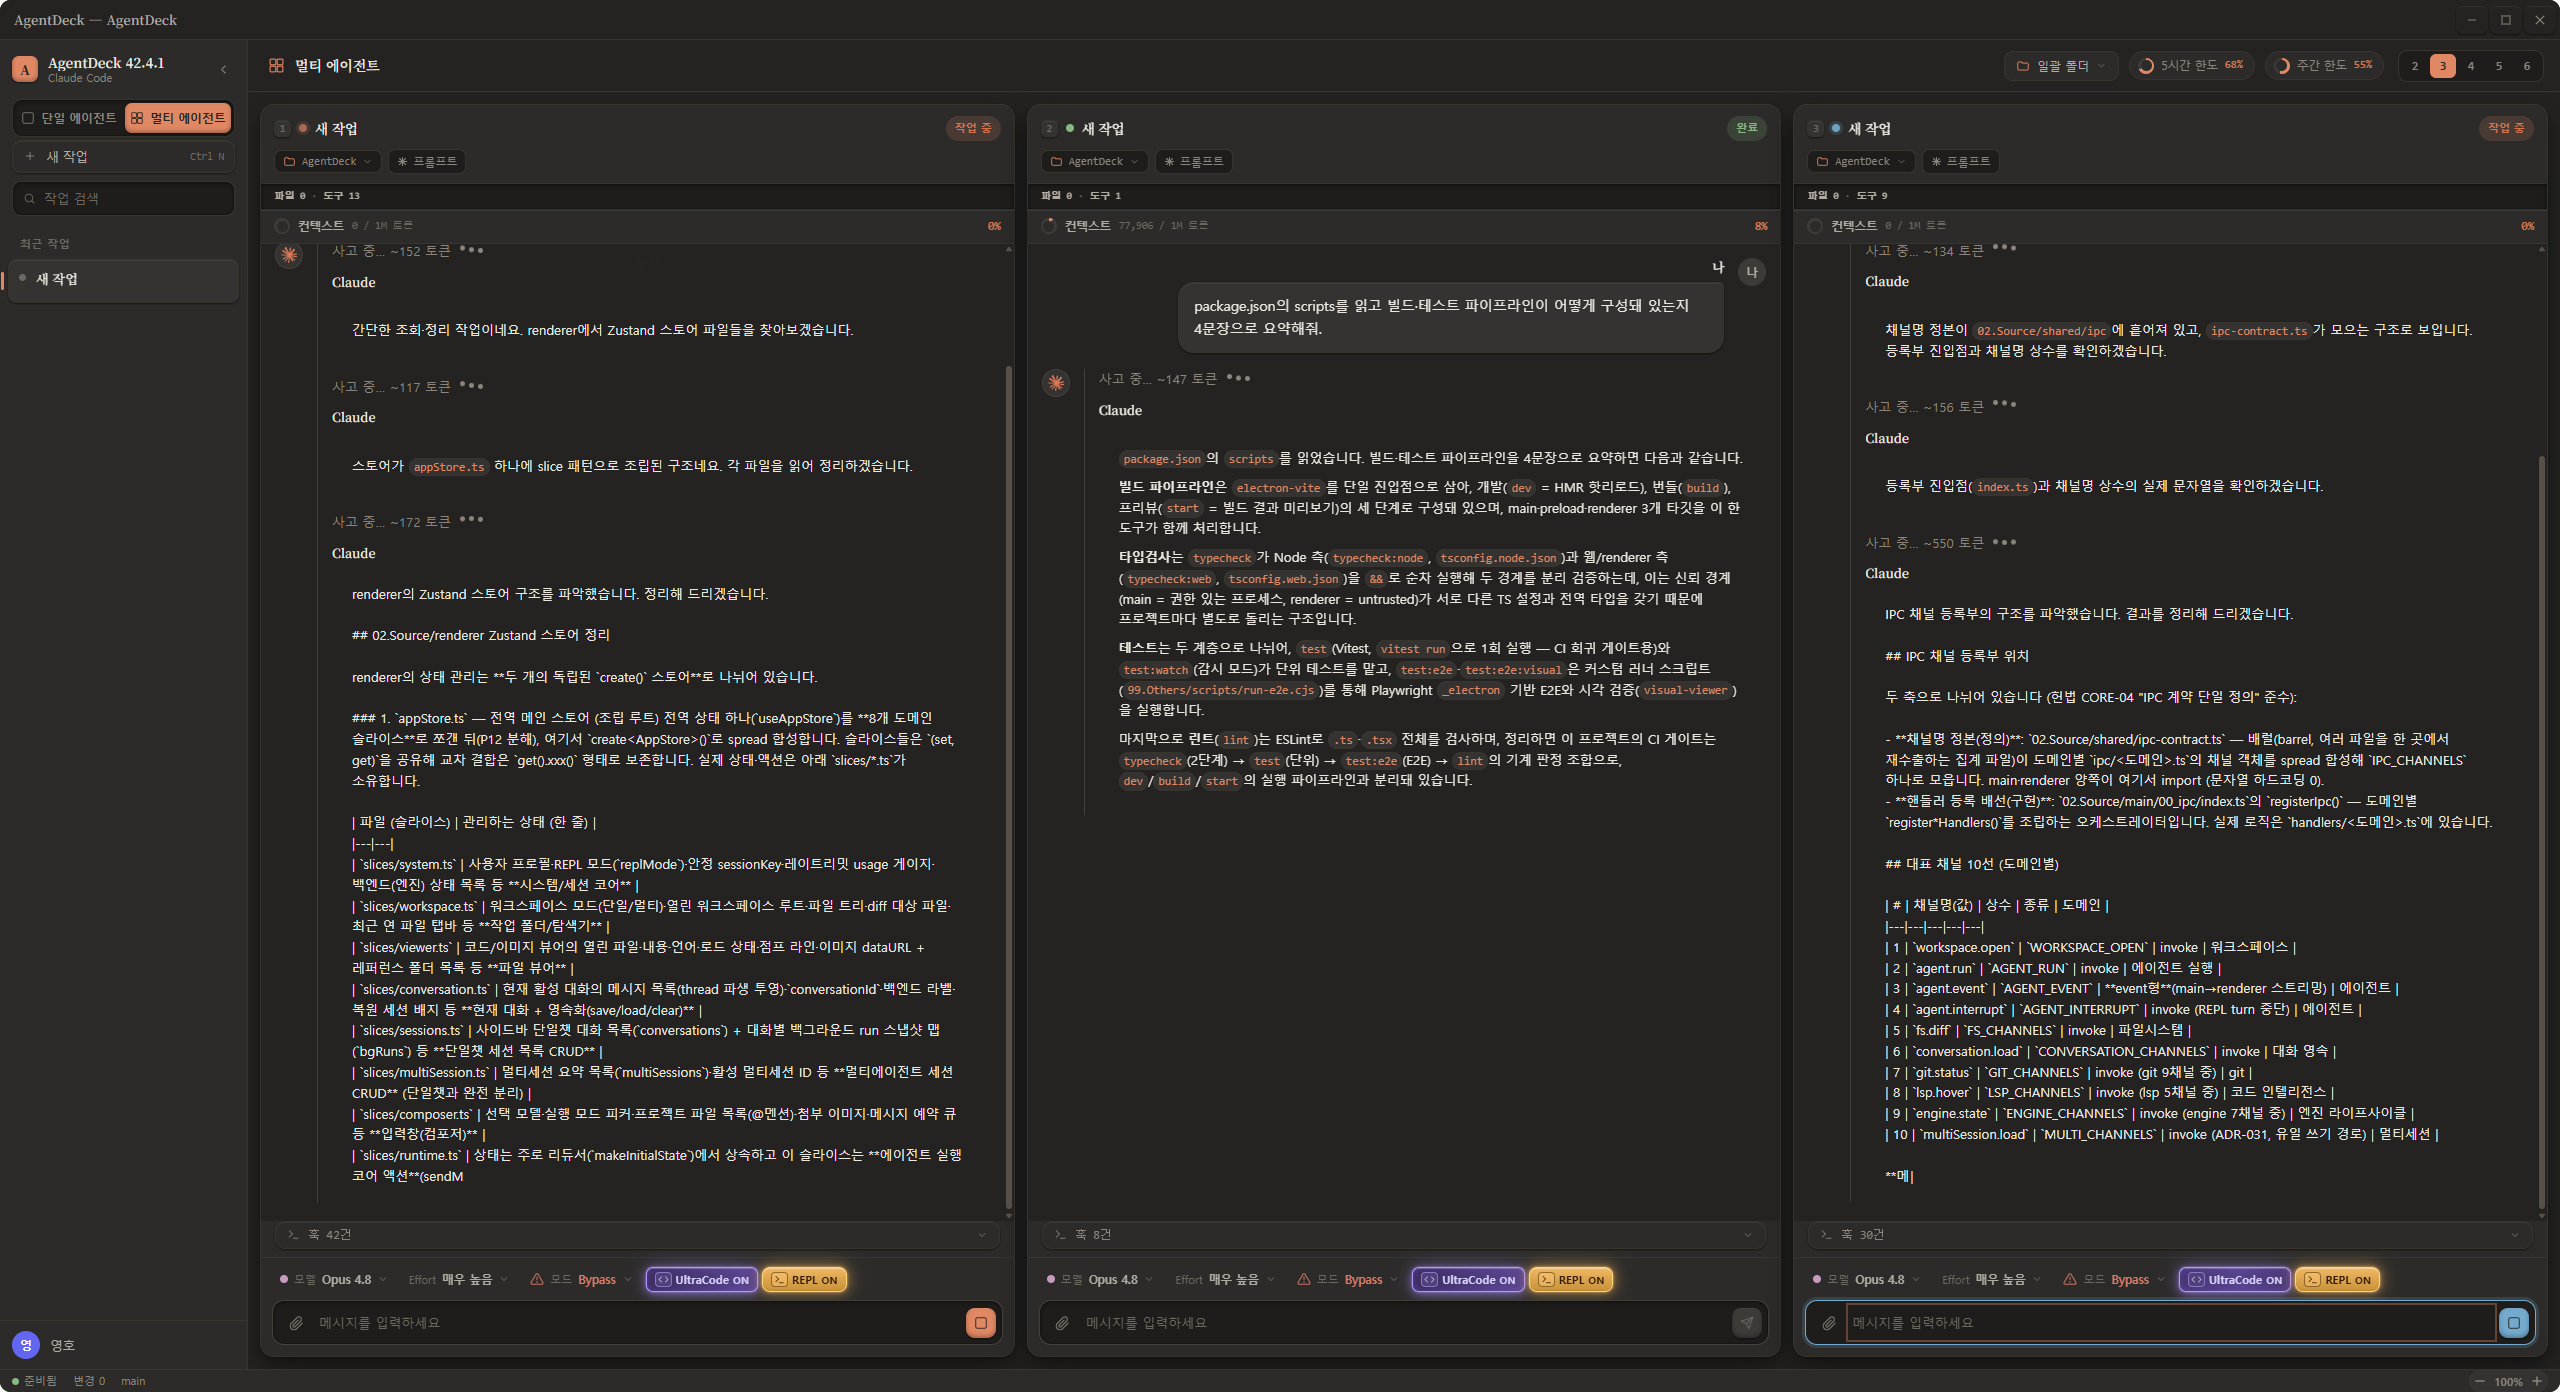
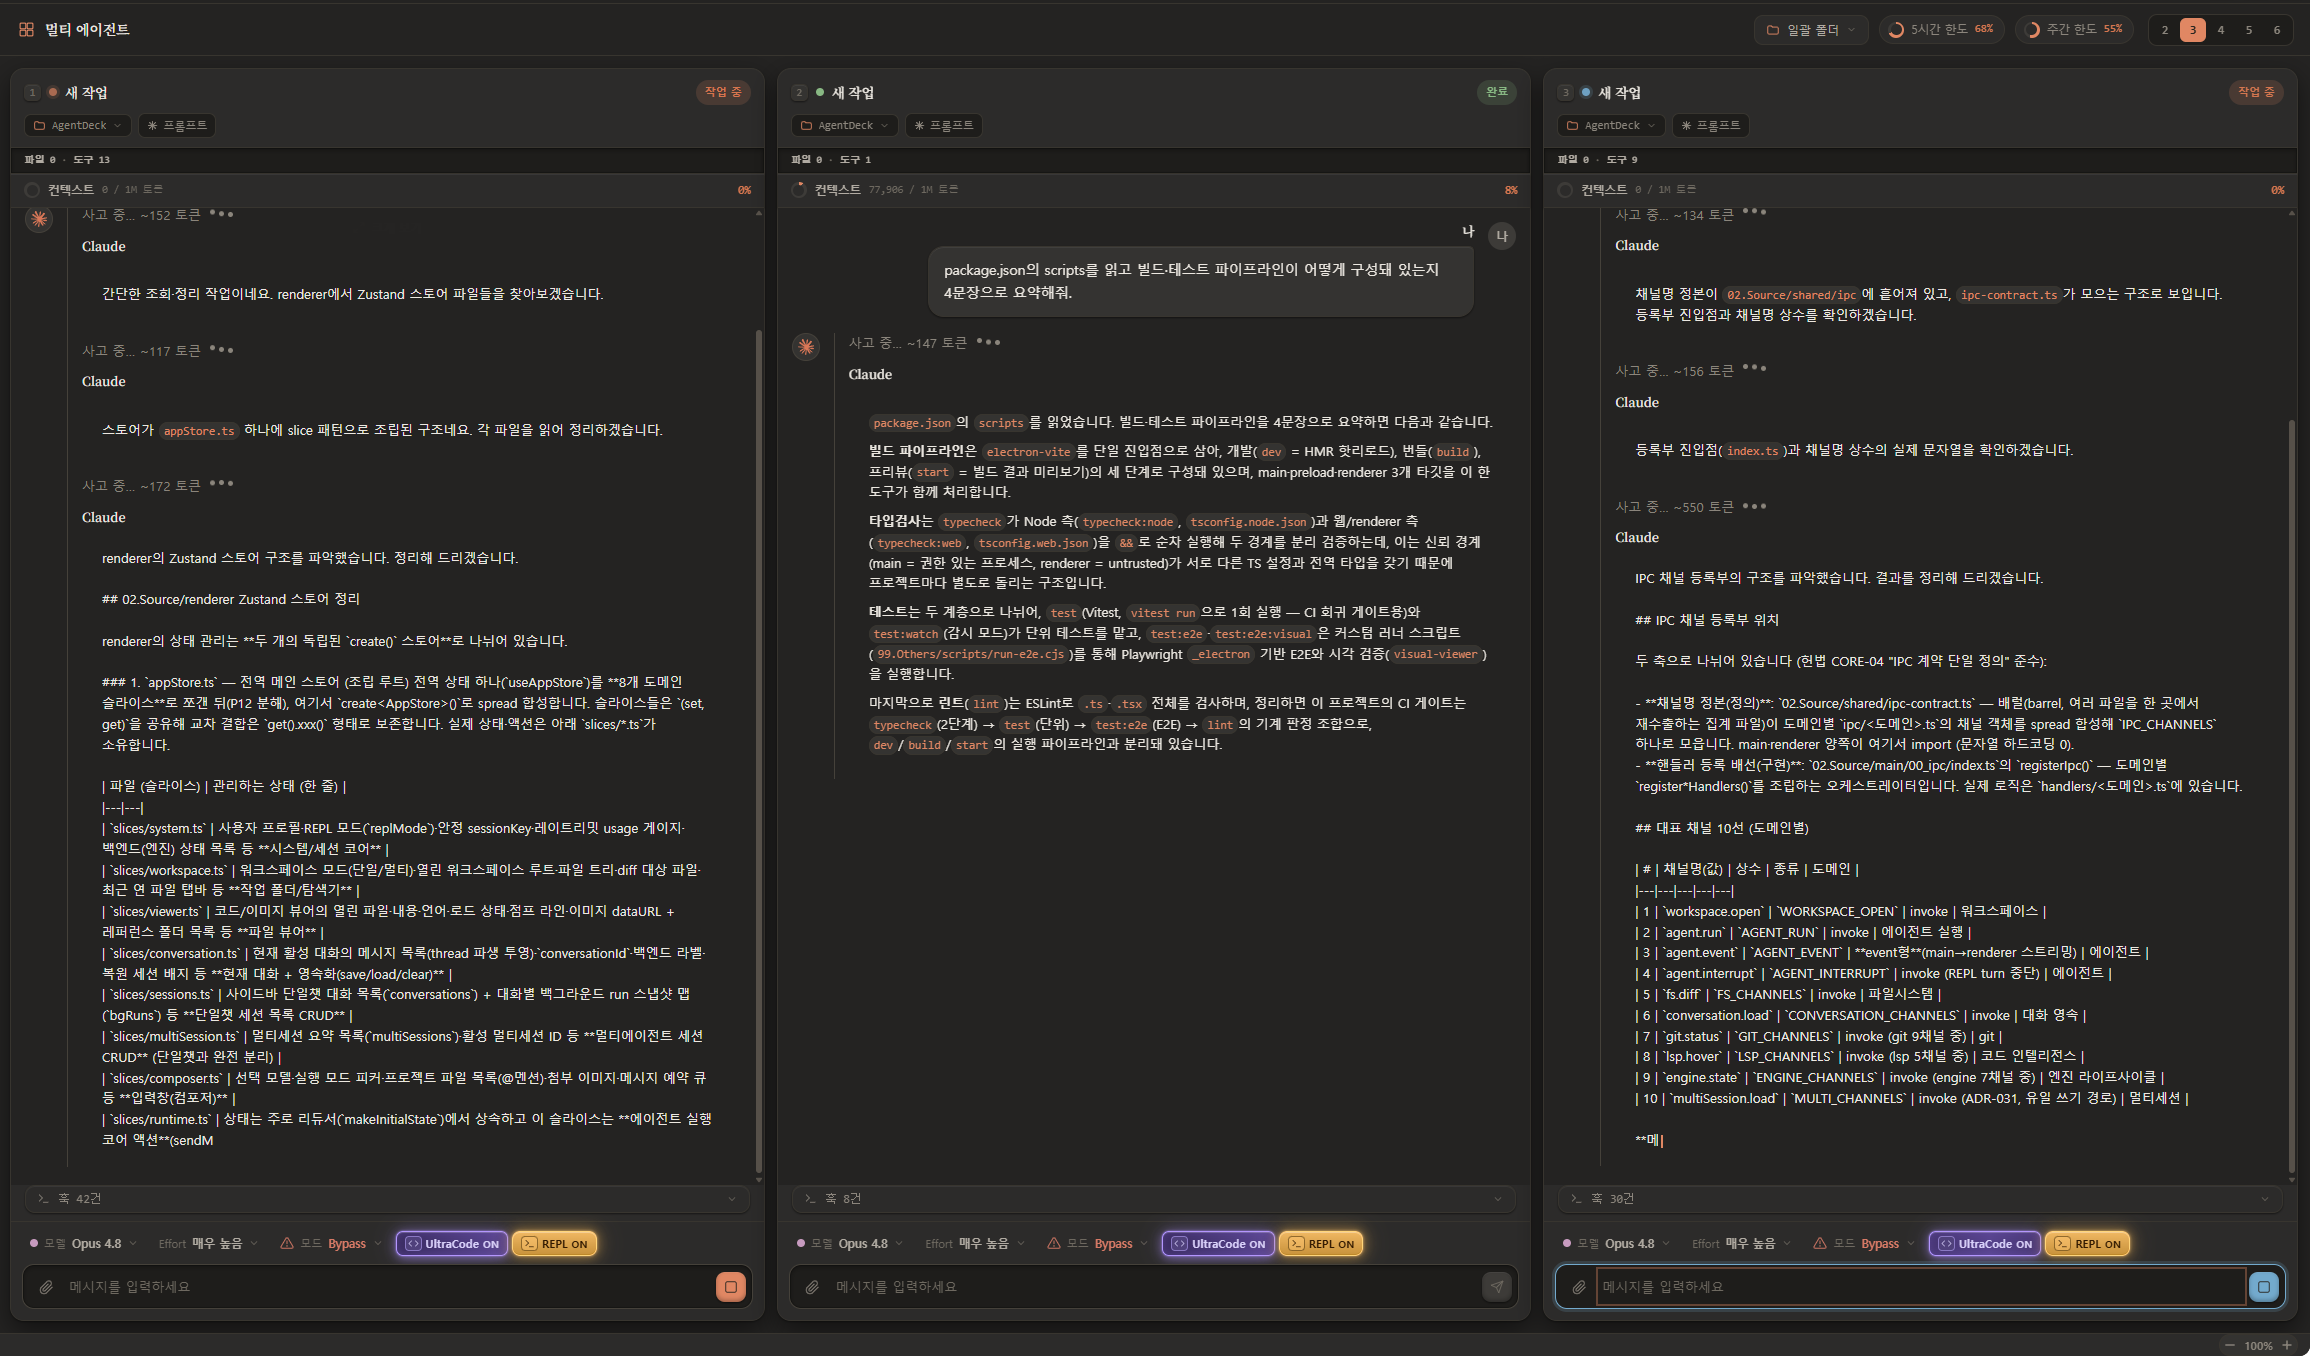
docs(readme): 스크린샷 가독성 — 2단 표 폐지·풀폭 스택 + 멀티/Git 컷 크롭
- 반폭 표 셀에서 2560px 원본 글자가 뭉개지는 문제(영호 실측) → 전부 풀폭 배치
- Git 컷은 모달 영역만(1245x730), 멀티 컷은 사이드바 제외(2310x1356)로 크롭
- readme-shots.e2e.ts에 요소 단위 촬영(.gitm-modal/.multi) 추가 — 다음 촬영부터 크롭 불필요

diff --git a/99.Others/tests/e2e/readme-shots.e2e.ts b/99.Others/tests/e2e/readme-shots.e2e.ts
@@ -146,6 +146,9 @@ test.describe('README 실사용 스크린샷 촬영 (opt-in: LIVE_SDK=1)', () =>
     await page.waitForSelector('.gitm-commit', { timeout: 15_000 })
     await page.waitForTimeout(800) // 목록 렌더 정착
     await page.screenshot({ path: join(SHOT_DIR, 'readme-git.png') })
+    // README 게재본(3차 실측): 풀프레임은 GitHub 표시 폭에서 글자가 뭉개진다 —
+    // 모달 요소만 별도 촬영해 그대로 assets에 쓴다(1차 게재본은 풀프레임 로컬 크롭).
+    await page.locator('.gitm-modal').screenshot({ path: join(SHOT_DIR, 'readme-git-modal.png') })
     await page.keyboard.press('Escape')
     await expect(page.locator('.gitm-overlay')).toHaveCount(0)
   })
@@ -184,6 +187,8 @@ test.describe('README 실사용 스크린샷 촬영 (opt-in: LIVE_SDK=1)', () =>
     await page.waitForTimeout(30_000)
     await pinWindow()
     await page.screenshot({ path: join(SHOT_DIR, 'readme-multiagent-b.png') })
+    // README 게재본: 세션 사이드바 제외한 멀티 영역만 — 표시 폭 대비 패널 가독성 확보.
+    await page.locator('.multi').screenshot({ path: join(SHOT_DIR, 'readme-multiagent-panels.png') })
 
     // 정리: 세 패널 턴 종료 대기(강제 종료로 세션을 찢지 않기 위함 — 실패해도 촬영은 완료)
     const deadline = Date.now() + 300_000

diff --git a/README.md b/README.md
@@ -13,9 +13,13 @@
 
 *AgentDeck으로 AgentDeck 자신을 조사하는 실사용 장면 — 할 일 추적 · general-purpose 서브에이전트 2개 병렬 · 도구 트레이스 · 컨텍스트/사용량 게이지. (촬영도 Playwright 스펙 [`readme-shots.e2e.ts`](./99.Others/tests/e2e/readme-shots.e2e.ts)로 재현 가능)*
 
-| 멀티 에이전트 — 3패널 동시 실작동 | Git 통합 — 실제 커밋 히스토리 |
-|---|---|
-| ![멀티 에이전트 3패널](00.Documents/assets/readme-shot-multiagent.png) | ![Git 히스토리 모달](00.Documents/assets/readme-shot-git.png) |
+![멀티 에이전트 — 3패널 동시 실작동](00.Documents/assets/readme-shot-multiagent.png)
+
+*멀티 에이전트 — 패널 3개가 같은 레포에서 서로 다른 분석을 동시에 실행 (작업 중·완료 혼재, 패널별 컨텍스트 게이지).*
+
+![Git 통합 — 실제 커밋 히스토리](00.Documents/assets/readme-shot-git.png)
+
+*Git 통합 — 커밋 히스토리·상세·푸시/당겨오기를 앱 안에서 (Git 라이브러리 0, `execFile` 직접).*
 
 <!-- TODO: 데모 GIF — 3-pane 셸에서 폴더열기→대화→diff 흐름 -->
 